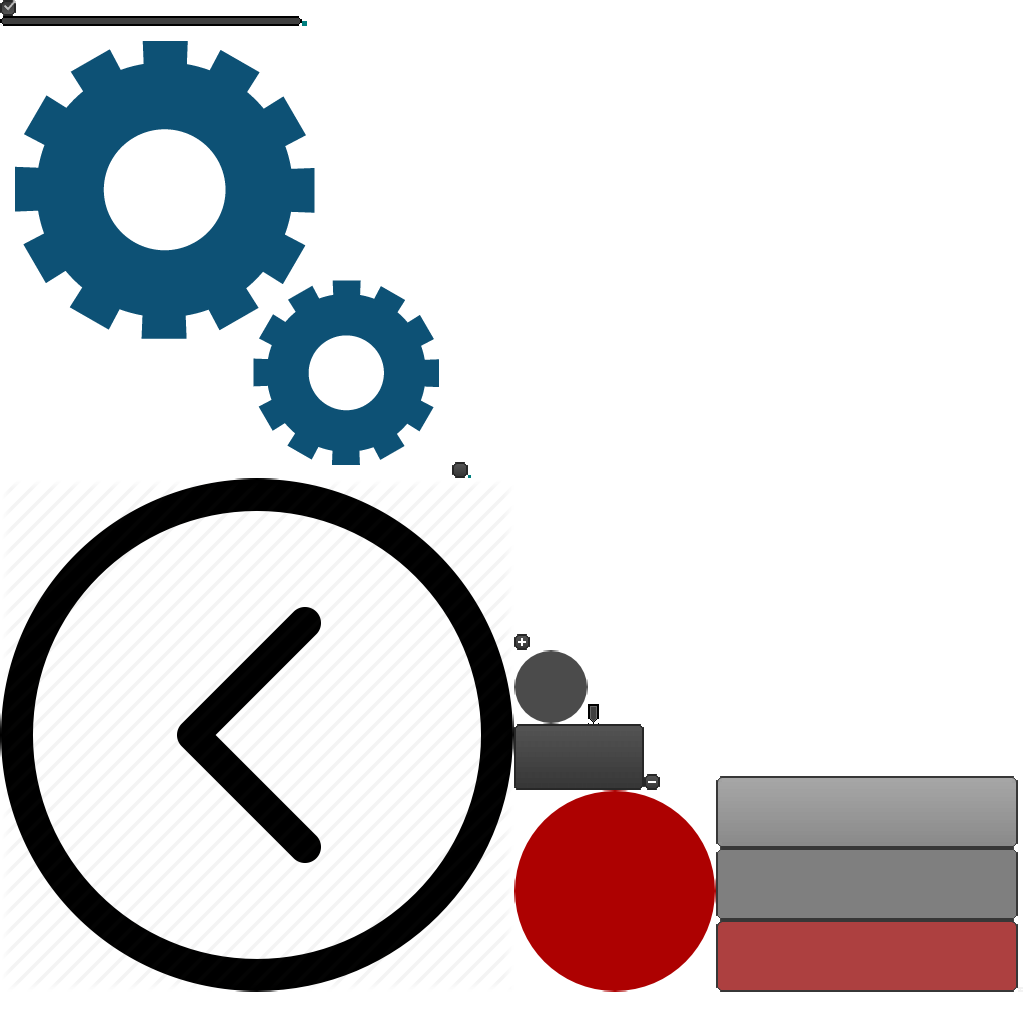
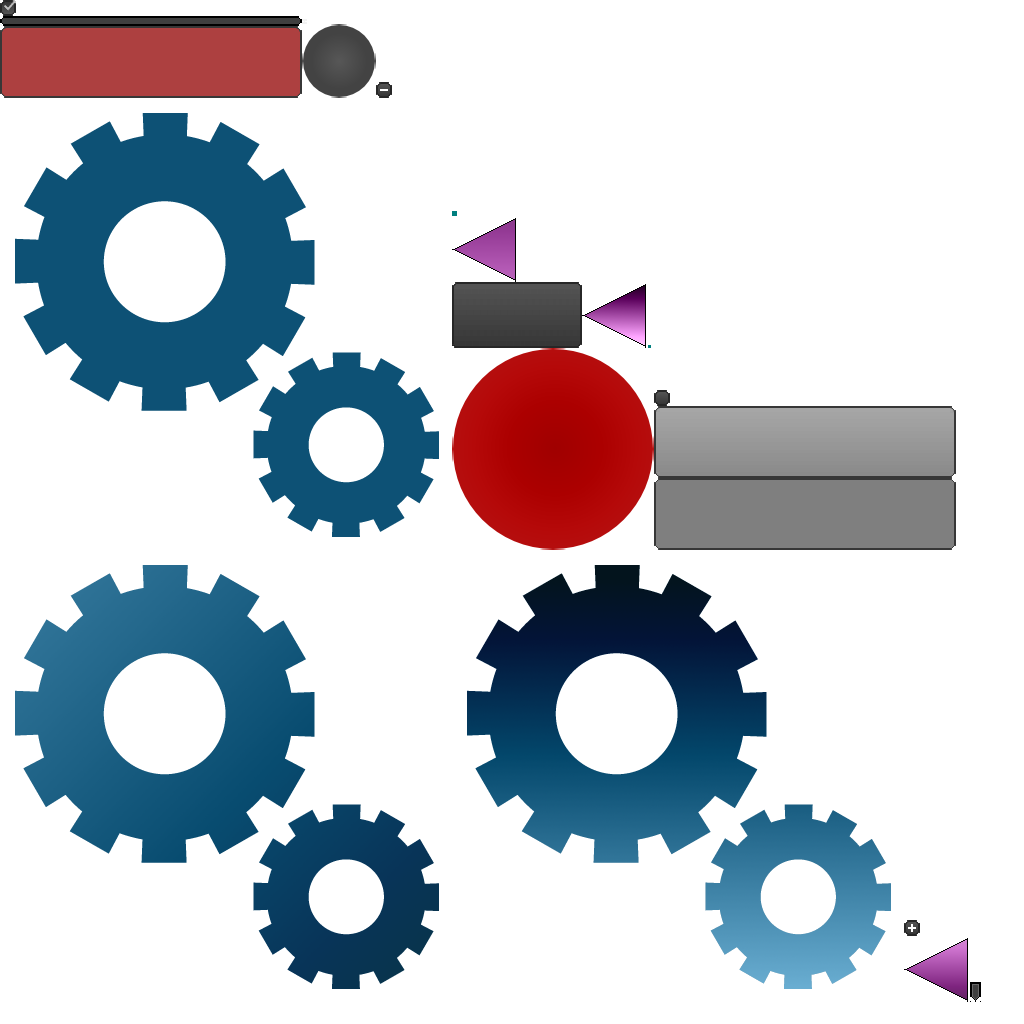
Minor UI adjustment

diff --git a/core/src/com/mygdx/game/screens/CharacterSelect.java b/core/src/com/mygdx/game/screens/CharacterSelect.java
@@ -5,6 +5,7 @@ import com.badlogic.gdx.graphics.g2d.Animation;
 import com.badlogic.gdx.graphics.g2d.Batch;
 import com.badlogic.gdx.graphics.g2d.TextureRegion;
 import com.badlogic.gdx.scenes.scene2d.InputEvent;
+import com.badlogic.gdx.scenes.scene2d.ui.ImageButton;
 import com.badlogic.gdx.scenes.scene2d.ui.Label;
 import com.badlogic.gdx.scenes.scene2d.ui.Skin;
 import com.badlogic.gdx.scenes.scene2d.ui.TextButton;
@@ -41,7 +42,8 @@ public class CharacterSelect extends StagedScreen
      */
     private static final int NUMBUTTONS = Player.NAMES.length;
 
-	private TextButton playButton, backButton;
+	private TextButton playButton;
+	private ImageButton backButton;
 	private DisplaySprite[] sprites;
 	private DisplaySprite spriteToDraw;
 	private Player.Name currentName;
@@ -62,7 +64,7 @@ public class CharacterSelect extends StagedScreen
 	    float width = stage.getWidth();
 	    float height = stage.getHeight();
 	    float inc = height / ( NUMBUTTONS + 2 );
-	    float x = width * 3 / 10 - BUTTON_WIDTH / 2;
+	    float x = width * 1 / 5 - BUTTON_WIDTH / 2;
 	    float y = height - inc;
 
         sprites = new DisplaySprite[NUMBUTTONS + 1];
@@ -73,13 +75,14 @@ public class CharacterSelect extends StagedScreen
             y -= inc;
         }
         playButton = new TextButton( "Play", skin );
-        backButton = new TextButton( "Back to Main Menu", skin );
+        backButton = new ImageButton( skin, "back" );
         
-        setDefaultSizes( playButton, backButton );
+        setDefaultSizes( playButton );
+        backButton.setSize( 75, 75 );
         
         // position
         playButton.setPosition( width * 3 / 4, height / 24 );
-        backButton.setPosition( 0, 0 );
+        backButton.setPosition( 2, 2 );
         
         // listeners
         playButton.addListener( new ClickListener() {
@@ -157,7 +160,7 @@ public class CharacterSelect extends StagedScreen
 	    }
         setDefaultSizes( button );
         button.setPosition( x, y );
-        setDisplaySprite( sprites[i], width * 5 / 8, height * 5 / 8 );
+        setDisplaySprite( sprites[i], width / 2, height * 5 / 8 );
         button.addListener( new ClickListener() {
             @Override
             public void clicked(InputEvent event, float x, float y)

diff --git a/core/src/com/mygdx/game/sprites/DisplaySprite.java b/core/src/com/mygdx/game/sprites/DisplaySprite.java
@@ -22,7 +22,7 @@ public class DisplaySprite extends StatsSprite
         this.delay = delay;
         this.initializeAnimations( a );
         this.labels = new ArrayList<Label>();
-        this.setDirection( 180 );
+        this.setDirection( Direction.SOUTH.getDirection() );
     }
     
     public void render( float delta ) {
@@ -35,8 +35,8 @@ public class DisplaySprite extends StatsSprite
     }
     
     public void createLabels() {
-        int x = Malice.GAME_WIDTH * 3 / 4;
-        int y = Malice.GAME_HEIGHT * 3 / 4;
+        int x = Malice.GAME_WIDTH * 5 / 8;
+        int y = Malice.GAME_HEIGHT * 5 / 8;
         SpriteData data = this.getSpriteData();
         Label l = new Label( data.getName(), skin, "titleLabel" );
         l.setPosition( x - l.getPrefWidth() / 2, Malice.GAME_HEIGHT - l.getPrefHeight() - 20 );
@@ -44,11 +44,12 @@ public class DisplaySprite extends StatsSprite
         labels.add( l );
 
         EnumMap<Stats, Integer> startingStats = data.getStartStats();
-        Stats[] stats = Stats.values();
-        for ( int i = 0; i < stats.length; i++ ) {
-            Stats s = stats[i];
+        for ( Stats s : Stats.VALUES ) {
+            if ( s.isInGame )
+                continue; // skip exp, exptolevel, and hp
             l = new Label( s + " " + startingStats.get( s ), skin );
             l.setPosition( x, y );
+            l.setVisible( false );
             labels.add( l );
             y -= ( l.getPrefHeight() + 20 );
         }

diff --git a/core/src/com/mygdx/game/sprites/SpriteData.java b/core/src/com/mygdx/game/sprites/SpriteData.java
@@ -7,15 +7,21 @@ import com.mygdx.game.loaders.StatLoader;
 public class SpriteData
 {
     public enum Stats {
-        LEVEL, 
-        EXPERIENCE, 
-        EXPTOLEVEL, 
-        HP, 
-        MAXHP, 
-        ATTACK, // base damage
-        SPEED, 
-        RELOADSPEED, 
-        LUCK // random damage modifier
+        LEVEL(true), 
+        EXPERIENCE(true), 
+        EXPTOLEVEL(true), 
+        HP(true), 
+        MAXHP(false), 
+        ATTACK(false), // base damage
+        SPEED(false), 
+        RELOADSPEED(false), 
+        LUCK(false); // random damage modifier
+        public static final Stats[] VALUES = Stats.values();
+        public final boolean isInGame;
+        Stats( boolean inGame ) {
+            this.isInGame = inGame;
+        }
+        
     }
     
     private String name;

diff --git a/core/src/com/mygdx/game/screens/MainMenu.java b/core/src/com/mygdx/game/screens/MainMenu.java
@@ -46,7 +46,7 @@ public class MainMenu extends StagedScreen
 	    titleLabel = new Label( Malice.TITLE, skin, "titleLabel" );
         playButton = new TextButton( "Play", skin );
         leaderButton = new TextButton( "Leader Board", skin );
-        settingsButton = new ImageButton( skin );
+        settingsButton = new ImageButton( skin, "settings" );
         exitButton = new TextButton( "Exit", skin );
         
         // sizes

diff --git a/core/src/com/mygdx/game/world/Map.java b/core/src/com/mygdx/game/world/Map.java
@@ -94,8 +94,6 @@ public class Map
     public Map( int rows, int cols)
     {
         areSpaces = new boolean[rows][cols];
-//        mapFloor = new TextureRegion[rows][cols];
-//        mapWalls = new TextureRegion[rows][cols];
         tiles = new MapTile[rows][cols];
         for ( MapTile[] m : tiles )
         {
